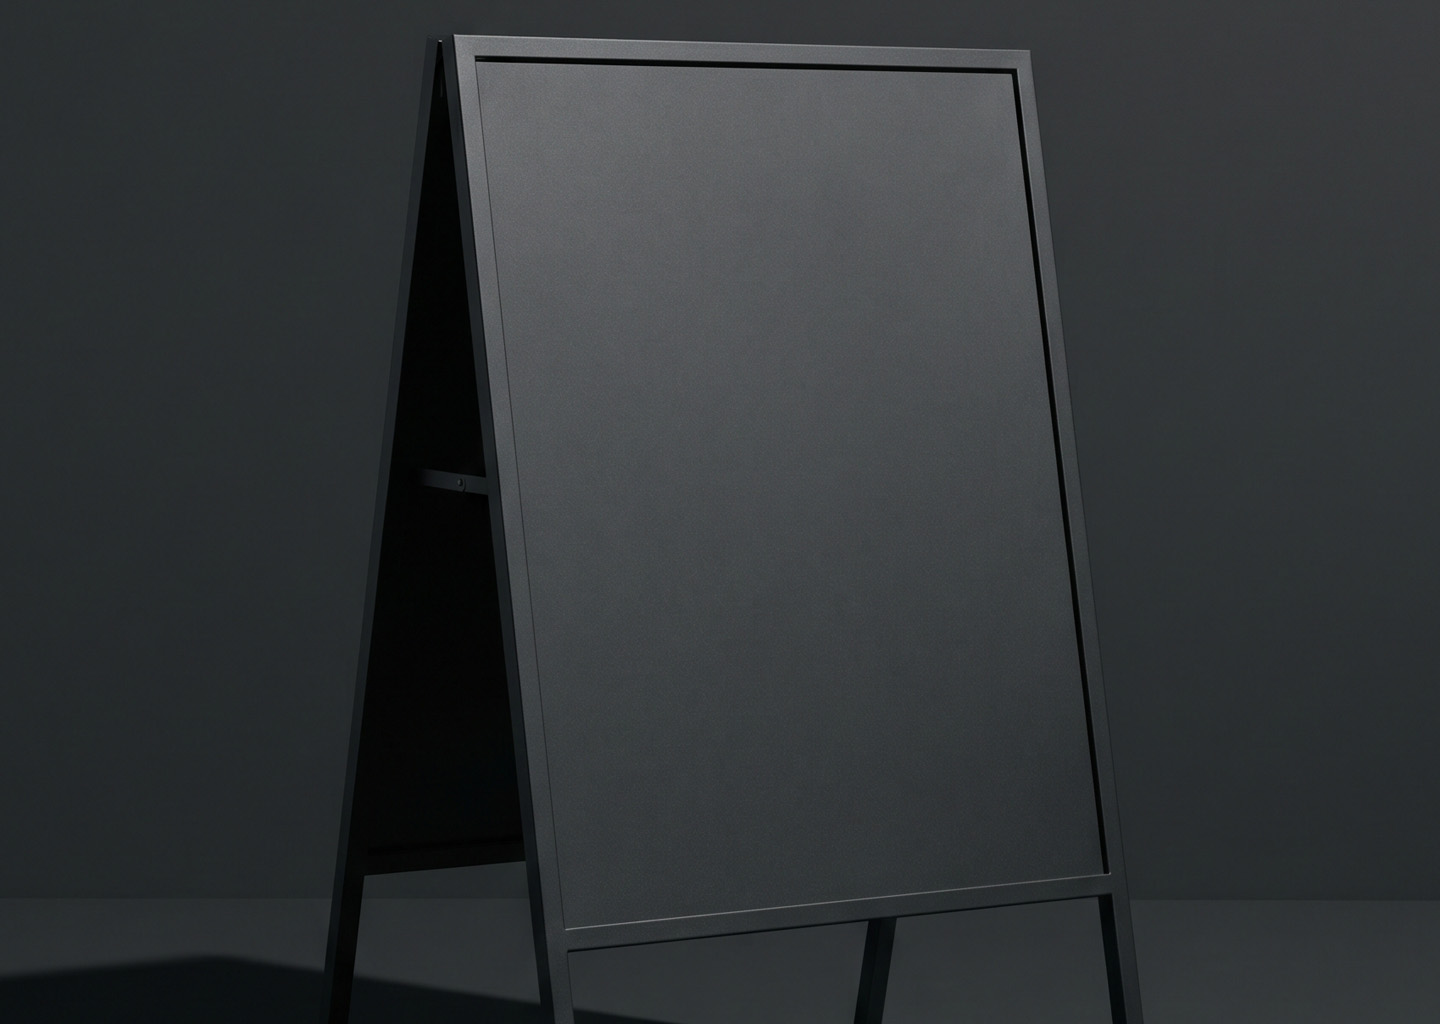
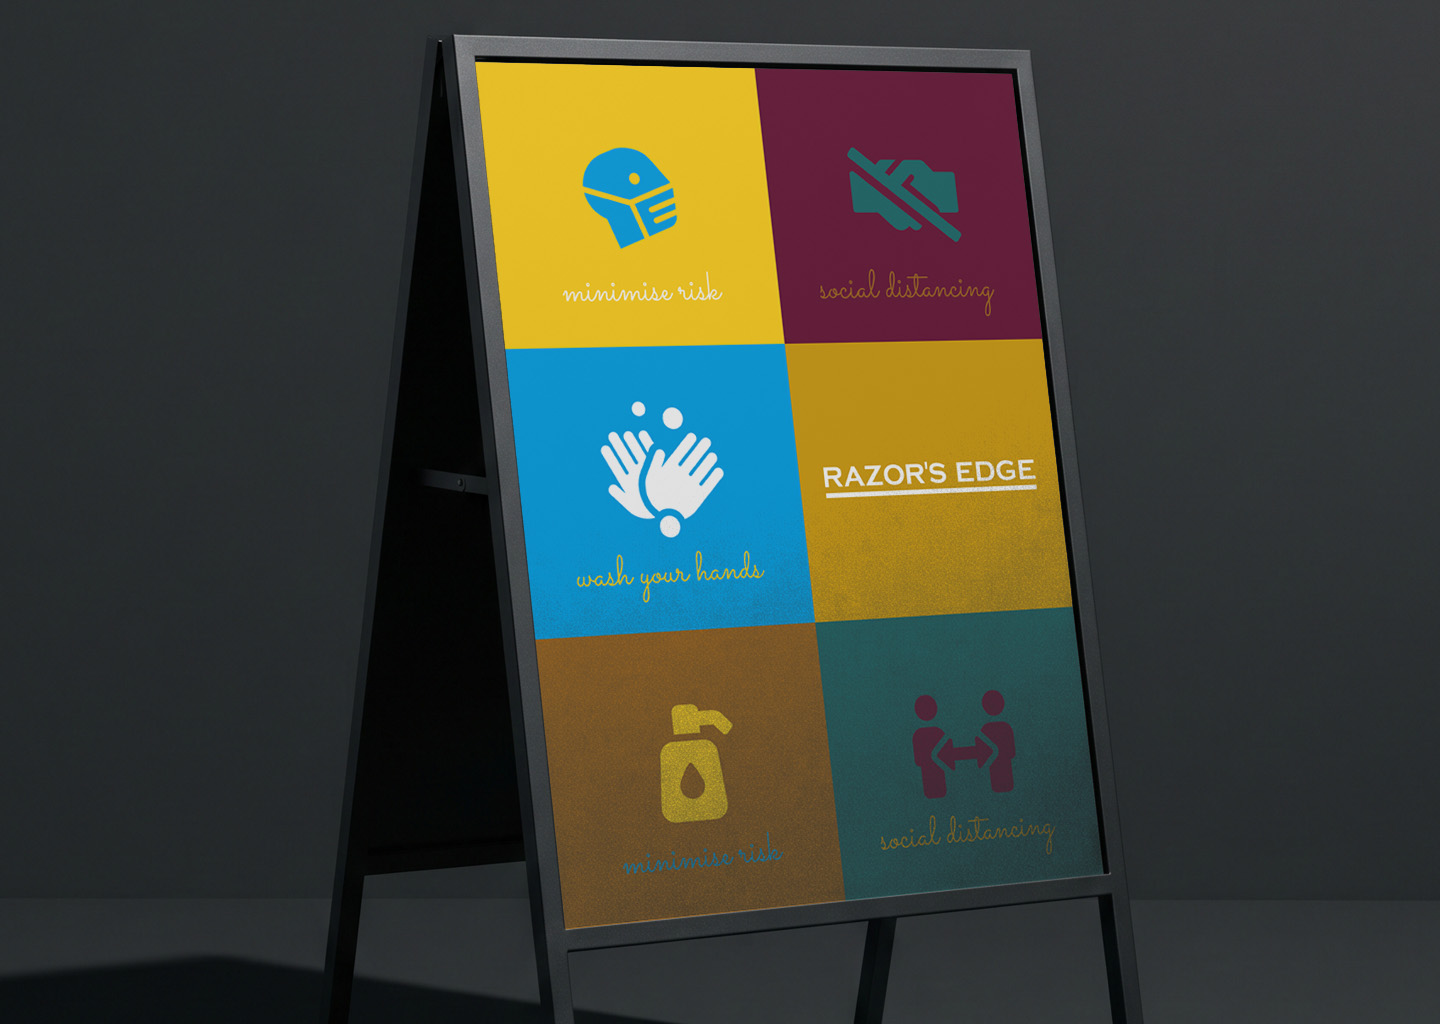
career pilot

Changed region(s): [[0.3125, 0.0625, 0.75, 0.9062], [0.625, 0.6875, 0.6875, 0.75]]

diff --git a/work/freelance/career_pilot.html b/work/freelance/career_pilot.html
@@ -74,7 +74,7 @@
     <p>Some amazing inciteful text will go here.</p>
    </div> 
   <div class="col-image">
-    <img src="freelance_image/" alt="Vector artwork">
+    <img src="freelance_image/careerpilot1.jpg" alt="Vector artwork">
   </div>
 </div>
 
@@ -84,7 +84,7 @@
      FULL BLEED IMAGE
 ═════════════════════════════════════════════════════════ -->
 <div class="fullbleed">
-  <img src="freelance_image/" alt="Full bleed detail">
+  <img src="freelance_image/careerpilot2.jpg" alt="Full bleed detail">
   <div class="fullbleed-caption">
     <span>Vector detail — Adobe Illustrator</span>
   </div>
@@ -95,12 +95,27 @@
 ═════════════════════════════════════════════════════════ -->
 <div class="two-col">
   <div class="col-image">
-    <img src="freelance_image/" alt="3D render">
+    <img src="freelance_image/careerpilot3.jpg" alt="3D render">
   </div>
   <div class="col-text">
     <p class="section-label"></p>
     <h2>Snappy Title</h2>
     <p>Some amazing inciteful text will go here.</p>
+  </div>
+</div>
+
+<!-- ══════════════════════════════════════════════════════
+     3-COL — TRIPLE IMAGE
+═════════════════════════════════════════════════════════ -->
+<div class="three-col">
+  <div class="three-col-image">
+    <img src="freelance_image/" alt="small image">
+  </div>
+  <div class="three-col-image">
+    <img src="freelance_image/" alt="small image">
+  </div>
+  <div class="three-col-image">
+    <img src="freelance_image/" alt="small image">
   </div>
 </div>
 

diff --git a/work/freelance/freelance.html b/work/freelance/freelance.html
@@ -57,7 +57,7 @@
     </a>
 
         <a class="gallery-item" href="rzr.html" style="--item-color:#F7B731">
-      <img src="/work/freelance/freelance_image/rzr2.jpg" alt="Razors Edge">
+      <img src="/work/freelance/freelance_image/rzr6.jpg" alt="Razors Edge">
       <div class="g-overlay"></div><div class="g-bar"></div>
       <div class="gallery-caption">
         <p class="cat">Branding</p><p class="title">Razors Edge</p>
@@ -65,7 +65,7 @@
     </a>
 
     <a class="gallery-item" href="career_pilot.html" style="--item-color:#FF6B6B">
-      <img src="/work/freelance/freelance_image/CareerPilot.jpg" alt="Career Pilot">
+      <img src="/work/freelance/freelance_image/careerpilot1.jpg" alt="Career Pilot">
       <div class="g-overlay"></div><div class="g-bar"></div>
       <div class="gallery-caption">
         <p class="cat">Identity</p><p class="title">Career Pilot</p>

diff --git a/work/personal/personal.html b/work/personal/personal.html
@@ -89,7 +89,7 @@
     </a>
 
     <a class="gallery-item" href="type.html" style="--item-color:#FD79A8">
-      <img src="/work/personal/personal_image/now.jpg" alt="typography">
+      <img src="/work/personal/personal_image/type-theend.jpg" alt="typography">
       <div class="g-overlay"></div><div class="g-bar"></div>
       <div class="gallery-caption">
         <p class="cat">Font design</p><p class="title">Typography</p>

diff --git a/work/portsmouth/pfc_showcase.html b/work/portsmouth/pfc_showcase.html
@@ -47,8 +47,8 @@
   </div>
   <div class="hero-gradient"></div>
   <div class="hero-content">
-    <p class="hero-cat">Case Study</p>
     <h1 class="hero-title">Portsmouth <br>Football Club</h1>
+    <p class="hero-cat">Case Study</p>
   </div>
 </section>
 

diff --git a/work/fulham/fulham_showcase.html b/work/fulham/fulham_showcase.html
@@ -47,8 +47,8 @@
   </div>
   <div class="hero-gradient"></div>
   <div class="hero-content">
-    <p class="hero-cat">Case Study</p>
     <h1 class="hero-title">Fulham <br>Football Club</h1>
+    <p class="hero-cat">Case Study</p>
   </div>
 </section>
 
